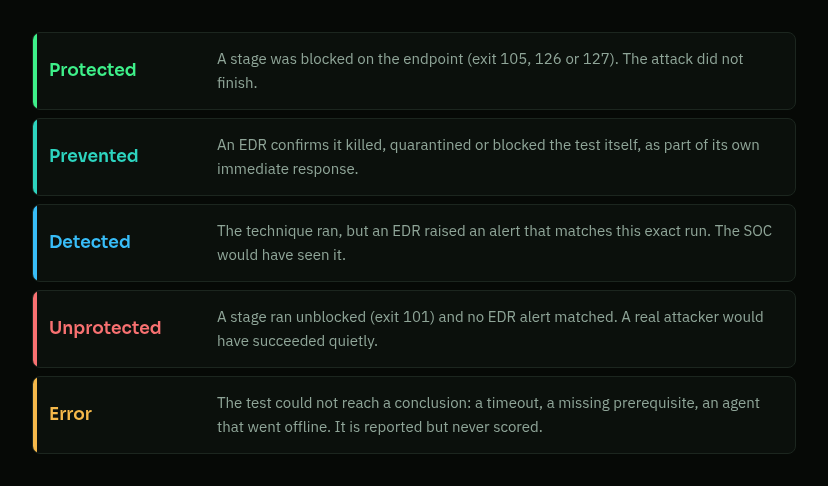
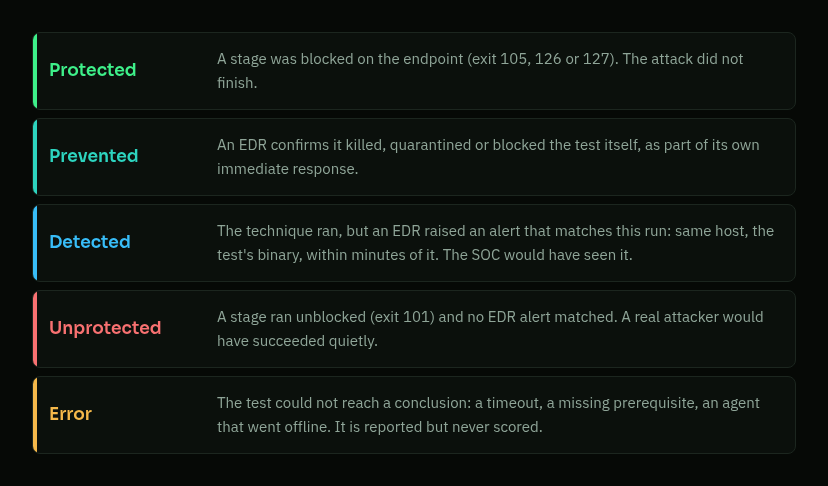
docs: fix overstated claims found in a code fact-check
- Library counts: 44 intel-driven, 10 MITRE top-10 ransomware, 12
  hygiene bundles (~65), not 49/11/20; the earlier count included README
  and shared entries. Top-10 is MITRE's ransomware set (T1059.001, T1047,
  T1490, T1486, T1489).
- Organizations: one install per organization is the separation model;
  drop "isolated from one another" and "multi-tenant installs".
- API keys: no key can create users or keys, but admin-scope keys can
  run commands on agents; drop "revoking contains the incident".
- Launch blocks: CrowdStrike, SentinelOne and Sophos only; Defender ASR
  stays "not run". Enrollment tokens are single-use by default, not
  one-time. Threat-actor coverage has no sector concept.
- EDR match upgrades the run's verdict; a stage gets its own Detected
  label only when its binary is named. Auto-resolve notes name the test.
- Illustrations: placeholder UUID instead of a real cyber-hygiene bundle;
  agent log shows downloading -> verify -> executing in the real order;
  chain example labelled illustrative. Three stills recaptured.

Changed region(s): [[0.2717, 0.4938, 0.7548, 0.5556], [0.785, 0.463, 0.936, 0.4938]]

diff --git a/wiki/static/how-it-works/index.html b/wiki/static/how-it-works/index.html
@@ -358,7 +358,7 @@ footer .wrap { display: flex; flex-wrap: wrap; gap: 12px 32px; justify-content: 
       <h1>Find out which attacks your defenses actually stop</h1>
       <p class="lede">Project Achilles is a purple team platform for continuous security validation. It runs safe, real-world attack techniques on your own endpoints, every day, and shows which ones your EDR blocked, which it only saw, and which went through unnoticed.</p>
       <ul class="facts">
-        <li><svg width="12" height="12" aria-hidden="true"><rect width="12" height="12" rx="2" fill="#3ef08a"/></svg><span><strong>About 80 tests</strong> mapped to MITRE ATT&amp;CK: ransomware chains, credential theft, EDR tampering, CIS hardening checks</span></li>
+        <li><svg width="12" height="12" aria-hidden="true"><rect width="12" height="12" rx="2" fill="#3ef08a"/></svg><span><strong>About 65 tests</strong> mapped to MITRE ATT&amp;CK: ransomware chains, credential theft, EDR tampering, CIS hardening checks</span></li>
         <li><svg width="12" height="12" aria-hidden="true"><rect width="12" height="12" rx="2" fill="#2dd4bf"/></svg><span><strong>A small Go agent</strong> on Windows, Linux and macOS that only calls out over HTTPS</span></li>
         <li><svg width="12" height="12" aria-hidden="true"><rect width="12" height="12" rx="2" fill="#38bdf8"/></svg><span><strong>EDR evidence</strong> pulled from Microsoft Defender, CrowdStrike, SentinelOne and Sophos and matched to each test</span></li>
       </ul>
@@ -498,24 +498,24 @@ footer .wrap { display: flex; flex-wrap: wrap; gap: 12px 32px; justify-content: 
     <div class="chapter-head">
       <span class="chapter-num">Chapter 3</span>
       <h2>Tests behave like the adversary, then report what happened</h2>
-      <p class="lede">Each test is a signed binary built from a Git-synced library and mapped to ATT&amp;CK techniques. It performs the technique for real, in a contained way, and exits with a code that says whether it was stopped.</p>
+      <p class="lede">Each test is a binary built from a Git-synced library and mapped to ATT&amp;CK techniques. It performs the technique for real, in a contained way, and exits with a code that says whether it was stopped.</p>
     </div>
 
     <div class="cats">
       <div class="panel cat">
-        <span class="count num">49</span>
+        <span class="count num">44</span>
         <h3>Intel-driven attack chains</h3>
         <p>Multi-stage emulations of current threat actors, built from published threat intelligence. Each stage reports separately.</p>
         <span class="eg">Akira BYOVD chain, SafePay UAC bypass, EDRSilencer, AMOS macOS infostealer, LSASS dumping with PPL bypass</span>
       </div>
       <div class="panel cat">
-        <span class="count num">11</span>
-        <h3>MITRE top-10 techniques</h3>
-        <p>Focused tests for the techniques that show up most in real intrusions: process injection, credential stores, defense impairment, masquerading.</p>
-        <span class="eg">T1055, T1555, T1562.001, T1036, T1003</span>
+        <span class="count num">10</span>
+        <h3>MITRE top-10 ransomware techniques</h3>
+        <p>One test for each of the ten techniques MITRE ranks most common in ransomware attacks, from PowerShell and WMI execution to deleting backups and encrypting files.</p>
+        <span class="eg">T1059.001, T1047, T1490, T1486, T1489</span>
       </div>
       <div class="panel cat">
-        <span class="count num">20</span>
+        <span class="count num">12</span>
         <h3>Cyber-hygiene bundles</h3>
         <p>Configuration checks against CIS and identity baselines. One bundle fans out into dozens of controls, each scored on its own.</p>
         <span class="eg">CIS Windows L1, CIS Linux L1, Defender hardening, Entra ID tenant hygiene, AD identity</span>
@@ -562,7 +562,7 @@ footer .wrap { display: flex; flex-wrap: wrap; gap: 12px 32px; justify-content: 
     </div>
     <div class="two">
       <div class="agent-points">
-        <div><h3>Enroll once, then poll</h3><p>An installer uses a one-time enrollment token. After that the agent sends heartbeats and asks for tasks over HTTPS with its own hashed API key, so it works behind NAT and strict firewalls.</p></div>
+        <div><h3>Enroll once, then poll</h3><p>An installer uses a short-lived enrollment token, single-use by default. After that the agent sends heartbeats and asks for tasks over HTTPS with its own API key, stored only as a hash on the server, so it works behind NAT and strict firewalls.</p></div>
         <div><h3>Runs only the binary it was sent</h3><p>Before running a test, the agent checks the binary's SHA-256 and size against the console's record, and runs it from a work folder locked to SYSTEM and Administrators. Windows builds are also Authenticode-signed with your certificate when one is configured.</p></div>
         <div><h3>Updates without bricking the fleet</h3><p>A new version must report the version it was registered as. After swapping the binary the agent launches it once to check, and rolls back to the old one if that check fails.</p></div>
         <div><h3>Watched by the console</h3><p>Missed heartbeats mark an agent offline. A task that never reports back is timed out, and if an EDR killed the agent mid-test, the console can prove that from the EDR's own alert.</p></div>
@@ -590,7 +590,7 @@ footer .wrap { display: flex; flex-wrap: wrap; gap: 12px 32px; justify-content: 
       <div class="ladder">
         <div class="rung" style="--c:var(--v-protected); --d:0s"><span class="name">Protected</span><p>A stage was blocked on the endpoint (exit 105, 126 or 127). The attack did not finish.</p><span class="sweep"></span></div>
         <div class="rung" style="--c:var(--v-prevented); --d:.5s"><span class="name">Prevented</span><p>An EDR confirms it killed, quarantined or blocked the test itself, as part of its own immediate response.</p><span class="sweep"></span></div>
-        <div class="rung" style="--c:var(--v-detected); --d:1s"><span class="name">Detected</span><p>The technique ran, but an EDR raised an alert that matches this exact run. The SOC would have seen it.</p><span class="sweep"></span></div>
+        <div class="rung" style="--c:var(--v-detected); --d:1s"><span class="name">Detected</span><p>The technique ran, but an EDR raised an alert that matches this run: same host, the test's binary, within minutes of it. The SOC would have seen it.</p><span class="sweep"></span></div>
         <div class="rung" style="--c:var(--v-unprotected); --d:1.5s"><span class="name">Unprotected</span><p>A stage ran unblocked (exit 101) and no EDR alert matched. A real attacker would have succeeded quietly.</p><span class="sweep"></span></div>
         <div class="rung" style="--c:var(--v-error); --d:2s"><span class="name">Error</span><p>The test could not reach a conclusion: a timeout, a missing prerequisite, an agent that went offline. It is reported but never scored.</p><span class="sweep"></span></div>
       </div>
@@ -605,7 +605,7 @@ footer .wrap { display: flex; flex-wrap: wrap; gap: 12px 32px; justify-content: 
         </div>
         <div class="panel note">
           <h3>Blocked before launch still counts</h3>
-          <p>When an EDR's static or machine-learning engine blocks the test orchestrator before it starts, and the EDR's alert names that exact run, the result is rewritten from "not run" to Protected.</p>
+          <p>When CrowdStrike, SentinelOne or Sophos blocks the test before it starts, and its alert ties to that run, the result is rewritten from "not run" to Protected. Defender ASR blocks stay "not run".</p>
         </div>
       </div>
     </div>
@@ -691,11 +691,11 @@ footer .wrap { display: flex; flex-wrap: wrap; gap: 12px 32px; justify-content: 
     <div class="two">
       <div class="panel tree" aria-label="Animated process tree showing an alert matched to a test">
         <div class="proc p0"><span class="ind"></span><span class="who">achilles-agent.exe</span><span class="why">service</span></div>
-        <div class="proc p1"><span class="ind">└─ </span><span class="who">7659eeba-f315-…-4aa015d68b27.exe</span><span class="chip-match">test UUID matched</span></div>
+        <div class="proc p1"><span class="ind">└─ </span><span class="who">3f9c2d1a-6b7e-…-9e41c07d5a28.exe</span><span class="chip-match">test UUID matched</span></div>
         <div class="proc p2"><span class="ind">   └─ </span><span class="who">cmd.exe /c …</span><span class="why">parent</span></div>
         <div class="proc p3"><span class="ind">      └─ </span><span class="who">rundll32.exe comsvcs.dll MiniDump</span><span class="chip-alert">EDR alert</span></div>
         <div class="outcomes">
-          <div><svg width="14" height="14" viewBox="0 0 14 14" aria-hidden="true"><circle cx="7" cy="7" r="6" fill="#38bdf8"/></svg><span><b>Verdict upgraded</b> from Unprotected to Detected for this stage</span></div>
+          <div><svg width="14" height="14" viewBox="0 0 14 14" aria-hidden="true"><circle cx="7" cy="7" r="6" fill="#38bdf8"/></svg><span><b>Verdict upgraded</b> from Unprotected to Detected for this run</span></div>
           <div><svg width="14" height="14" viewBox="0 0 14 14" aria-hidden="true"><circle cx="7" cy="7" r="6" fill="#3ef08a"/></svg><span><b>Technique overlap recorded</b>: what the test did against what the EDR labelled</span></div>
           <div><svg width="14" height="14" viewBox="0 0 14 14" aria-hidden="true"><circle cx="7" cy="7" r="6" fill="#2dd4bf"/></svg><span><b>Alert auto-resolved</b> in the EDR console as authorized security testing</span></div>
         </div>
@@ -703,7 +703,7 @@ footer .wrap { display: flex; flex-wrap: wrap; gap: 12px 32px; justify-content: 
       <div class="edr-list">
         <div class="vendors"><span class="tag">Microsoft Defender</span><span class="tag">CrowdStrike Falcon</span><span class="tag">SentinelOne</span><span class="tag">Sophos Central</span></div>
         <div><h3>Same host, same window, the test in the evidence</h3><p>An alert is linked when it is on the test's host, inside the run's time window, and the test's UUID-named binary appears in its evidence: the triggering process, its parent or grandparent where the EDR reports them, or a file path.</p></div>
-        <div><h3>The SOC queue stays clean</h3><p>Once an alert is proven to be a test, Achilles can close it in the EDR console with a note naming the run. Dry-run mode shows what it would close before you let it write anything. The test results themselves are never edited.</p></div>
+        <div><h3>The SOC queue stays clean</h3><p>Once an alert is proven to be a test, Achilles can resolve it in the EDR console with a note naming the test. Dry-run mode shows what it would close before you let it write anything. The test results themselves are never edited.</p></div>
         <div><h3>The EDR's own posture, scored alongside</h3><p>Microsoft Secure Score, CrowdStrike Zero Trust, and Achilles-computed scores for SentinelOne and Sophos are trended next to the Defense Score. Posture checks also flag exclusions that would quietly whitelist every test.</p></div>
       </div>
     </div>
@@ -732,7 +732,7 @@ footer .wrap { display: flex; flex-wrap: wrap; gap: 12px 32px; justify-content: 
         <h3 style="color:var(--v-protected)">For risk management</h3>
         <ul>
           <li><strong>Control effectiveness you can quote</strong><span>"Ransomware chains are stopped before encryption on 85% of hosts" is a measured statement, re-measured every week.</span></li>
-          <li><strong>Exposure to named threat actors</strong><span>Threat-actor coverage shows which of the groups in your sector would get through today, based on their known techniques.</span></li>
+          <li><strong>Exposure to named threat actors</strong><span>Threat-actor coverage shows, for each group your test library emulates, how many of its tests got through on your hosts today.</span></li>
           <li><strong>Evidence for auditors and the board</strong><span>Campaigns produce a tests-by-hosts evidence matrix, CSV exports and print-ready execution reports.</span></li>
           <li><strong>Risk acceptance on the record</strong><span>Accepted gaps are excluded explicitly and remain visible in the unadjusted score, so nothing disappears from view.</span></li>
         </ul>
@@ -771,8 +771,8 @@ footer .wrap { display: flex; flex-wrap: wrap; gap: 12px 32px; justify-content: 
     <div class="guards">
       <div><svg width="28" height="28" viewBox="0 0 28 28" aria-hidden="true"><rect x="3" y="6" width="22" height="16" rx="3" fill="none" stroke="#3ef08a" stroke-width="1.8"/><path d="M3 8l11 8 11-8" fill="none" stroke="#3ef08a" stroke-width="1.8"/></svg><h3>Announced before it runs</h3><p>With pre-execution notices on, tests are held on the server until the email is accepted for every recipient, plus a lead time you choose. A broken mail server holds the tests rather than letting them run unannounced.</p></div>
       <div><svg width="28" height="28" viewBox="0 0 28 28" aria-hidden="true"><path d="M14 3l9 4v6c0 5.5-3.8 10-9 12-5.2-2-9-6.5-9-12V7l9-4z" fill="none" stroke="#3ef08a" stroke-width="1.8"/><path d="M10 14l3 3 5-6" fill="none" stroke="#3ef08a" stroke-width="1.8"/></svg><h3>Hash-checked before it runs</h3><p>A test binary runs only if its SHA-256 and size match the console's record. Windows builds are Authenticode-signed with your certificate when one is configured, and the Sophos posture checks flag an allow-list entry for that certificate, which would whitelist every test.</p></div>
-      <div><svg width="28" height="28" viewBox="0 0 28 28" aria-hidden="true"><circle cx="9" cy="10" r="4" fill="none" stroke="#3ef08a" stroke-width="1.8"/><circle cx="19" cy="10" r="4" fill="none" stroke="#3ef08a" stroke-width="1.8"/><path d="M3 23c0-4 3-6 6-6s6 2 6 6M13 23c0-4 3-6 6-6s6 2 6 6" fill="none" stroke="#3ef08a" stroke-width="1.8"/></svg><h3>Roles and organizations</h3><p>Viewers, operators and admins get different permissions. Organizations are isolated from one another, and shared EDR settings become read-only in multi-tenant installs.</p></div>
-      <div><svg width="28" height="28" viewBox="0 0 28 28" aria-hidden="true"><circle cx="10" cy="14" r="5" fill="none" stroke="#3ef08a" stroke-width="1.8"/><path d="M15 14h10M21 14v4M25 14v3" fill="none" stroke="#3ef08a" stroke-width="1.8"/></svg><h3>Scoped API keys</h3><p>Automation keys come in read, read-write and admin scopes. No key can create users or more keys, so revoking a leaked key contains the incident.</p></div>
+      <div><svg width="28" height="28" viewBox="0 0 28 28" aria-hidden="true"><circle cx="9" cy="10" r="4" fill="none" stroke="#3ef08a" stroke-width="1.8"/><circle cx="19" cy="10" r="4" fill="none" stroke="#3ef08a" stroke-width="1.8"/><path d="M3 23c0-4 3-6 6-6s6 2 6 6M13 23c0-4 3-6 6-6s6 2 6 6" fill="none" stroke="#3ef08a" stroke-width="1.8"/></svg><h3>Roles and organizations</h3><p>Admins, operators, analysts and read-only explorers get different permissions. Inside an install, agents, tasks, schedules and results are scoped to each organization; for full separation, run one install per organization.</p></div>
+      <div><svg width="28" height="28" viewBox="0 0 28 28" aria-hidden="true"><circle cx="10" cy="14" r="5" fill="none" stroke="#3ef08a" stroke-width="1.8"/><path d="M15 14h10M21 14v4M25 14v3" fill="none" stroke="#3ef08a" stroke-width="1.8"/></svg><h3>Scoped API keys</h3><p>Automation keys come in read, read-write and admin scopes. No key can create users or more API keys, so a leaked key can't mint console access that outlives it. Admin-scope keys can still run commands on agents, so treat them like root credentials.</p></div>
       <div><svg width="28" height="28" viewBox="0 0 28 28" aria-hidden="true"><path d="M4 14a10 10 0 0 1 17-7l3-3v8h-8l3-3a7 7 0 1 0 1.5 7" fill="none" stroke="#3ef08a" stroke-width="1.8"/></svg><h3>Safe self-updates</h3><p>Version checks, a launch test at the final path, automatic rollback and a repeat-install guard keep a bad build from knocking the fleet offline.</p></div>
       <div><svg width="28" height="28" viewBox="0 0 28 28" aria-hidden="true"><rect x="5" y="12" width="18" height="12" rx="2" fill="none" stroke="#3ef08a" stroke-width="1.8"/><path d="M9 12V8a5 5 0 0 1 10 0v4" fill="none" stroke="#3ef08a" stroke-width="1.8"/></svg><h3>Deployed where you need it</h3><p>Docker Compose, a single server behind Caddy with automatic TLS, an on-prem LAN installer with its own constrained CA, or managed cloud hosts.</p></div>
     </div>
@@ -1109,10 +1109,11 @@ footer .wrap { display: flex; flex-wrap: wrap; gap: 12px 32px; justify-content: 
   /* ════════ AGENT TERMINAL ════════ */
   var termLines = [
     ['k', '→ POST /api/agent/heartbeat'], ['w', '  200 ok  cpu 4%  mem 31 MB  v0.7.2'],
-    ['k', '→ GET  /api/agent/tasks'], ['w', '  200 task 4f2c9e1a  execute_test  7659eeba (windows/amd64)'],
+    ['k', '→ GET  /api/agent/tasks'], ['w', '  200 task 4f2c9e1a  execute_test  3f9c2d1a (windows/amd64)'],
+    ['k', '→ PATCH /api/agent/tasks/4f2c9e1a/status'], ['w', '  downloading'],
+    ['s', '  download 3f9c2d1a.exe  sha256 ok  size ok'],
     ['k', '→ PATCH /api/agent/tasks/4f2c9e1a/status'], ['w', '  executing'],
-    ['s', '  download 7659eeba.exe  sha256 ok  size ok'],
-    ['w', '  run C:\\F0\\tasks\\task-4f2c9e1a\\7659eeba.exe'],
+    ['w', '  run C:\\F0\\tasks\\task-4f2c9e1a\\3f9c2d1a.exe'],
     ['r', '  stage 1  T1204.002  exit 101  ran'],
     ['p', '  stage 2  T1562.001  exit 126  blocked by EDR'],
     ['w', '  stage 3..5 not reached'],
